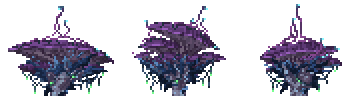
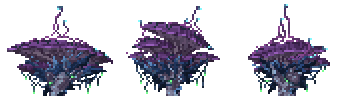
Fixed BigCorruptionInfectedMushroom tops

diff --git a/Content/Trees/CorruptionInfectedBigMushroom.cs b/Content/Trees/CorruptionInfectedBigMushroom.cs
@@ -9,12 +9,9 @@ namespace BiomeExpansion.Content.Tiles.Trees;
 
 public class CorruptionInfectedBigMushroom : ModTree
 {
-    private Asset<Texture2D> _texture;
-    private Asset<Texture2D> _branchesTexture;
-    private Asset<Texture2D> _topsTexture;
-    public override Asset<Texture2D> GetTexture() => _texture;
-    public override Asset<Texture2D> GetBranchTextures() => _branchesTexture;
-    public override Asset<Texture2D> GetTopTextures() => _topsTexture;
+    public override Asset<Texture2D> GetTexture() => ModContent.Request<Texture2D>("BiomeExpansion/Assets/Trees/BigInfectedMushroom");
[1 lines of base64/hex data omitted]
+    public override Asset<Texture2D> GetTopTextures() => ModContent.Request<Texture2D>("BiomeExpansion/Assets/Trees/BigCorruptionInfectedMushroomTops");
     public override int CreateDust() => DustID.Corruption;
     public override bool CanDropAcorn() => false;
     public override int DropWood() => ModContent.ItemType<Items.Placeable.CorruptionInfectedSmallMushroom>();
@@ -30,9 +27,6 @@ public class CorruptionInfectedBigMushroom : ModTree
     public override void SetStaticDefaults() 
     {
         GrowsOnTileId = [ModContent.TileType<CorruptionInfectedMushroomGrass>()];
-        _texture = ModContent.Request<Texture2D>("BiomeExpansion/Assets/Trees/BigInfectedMushroom");
[1 lines of base64/hex data omitted]
-        _topsTexture = ModContent.Request<Texture2D>("BiomeExpansion/Assets/Trees/BigCorruptionInfectedMushroomTops");
     }
 
     public override int SaplingGrowthType(ref int style)
@@ -43,5 +37,12 @@ public class CorruptionInfectedBigMushroom : ModTree
     
     public override void SetTreeFoliageSettings(Tile tile, ref int xoffset, ref int treeFrame, ref int floorY, ref int topTextureFrameWidth, ref int topTextureFrameHeight)
     {
+        topTextureFrameWidth = 112;
+        topTextureFrameHeight = 94;
+    }
+    
+    public override bool Shake(int x, int y, ref bool createLeaves)
+    {
+        return false;
     }
 }

diff --git a/BiomeExpansion.cs b/BiomeExpansion.cs
@@ -1,7 +1,4 @@
-using BiomeExpansion.Helpers;
 using Terraria;
-using Terraria.Graphics.Effects;
-using Terraria.Graphics.Shaders;
 using Terraria.ID;
 using Terraria.ModLoader;
 
@@ -14,9 +11,6 @@ namespace BiomeExpansion
 		{
 			if (Main.netMode != NetmodeID.Server)
 			{
-				ShaderHelper.LoadNewShader("BiomeExpansion:CorruptionBloodMoonFilterShader", new Filter(new ScreenShaderData("FilterBloodMoon").UseColor(83, 62, 125).UseOpacity(0.95f), EffectPriority.High));
-				ShaderHelper.LoadNewShader("BiomeExpansion:CrimsonBloodMoonFilterShader", new Filter(new ScreenShaderData("FilterBloodMoon").UseColor(171, 22, 22).UseOpacity(0.95f), EffectPriority.High));
-			
 				// Asset<Effect> crimsonEffect = Assets.Request<Effect>("Assets/Effects/CrimsonInfectedShader");
 				// ShaderHelper.LoadNewShader("BiomeExpansion:CrimsonInfectedShader", new Filter(new ScreenShaderData(crimsonEffect, "BiomeExpansion:CrimsonInfectedShader").UseIntensity(1f).UseProgress(Main.GameUpdateCount / 60f), EffectPriority.High));
 			}

diff --git a/Content/Biomes/CrimsonInfectedMushroomSurfaceBiome.cs b/Content/Biomes/CrimsonInfectedMushroomSurfaceBiome.cs
@@ -3,7 +3,6 @@ using BiomeExpansion.Common.Systems;
 using Terraria;
 using Terraria.GameContent.Events;
 using Terraria.Graphics.Capture;
-using Terraria.Graphics.Effects;
 using Terraria.ID;
 using Terraria.ModLoader;
 
@@ -25,18 +24,6 @@ namespace BiomeExpansion.Content.Biomes
 
         public override bool IsBiomeActive(Player player) {
             return !player.ZoneDungeon && ModContent.GetInstance<BiomeTileCounterSystem>().CrimsonInfectedMushroomBiomeTileCount >= 150;
-        }
-        
-        public override void OnInBiome(Player player)
-        {
-            Filters.Scene.Activate("BiomeExpansion:CrimsonBloodMoonFilterShader");
-            // Filters.Scene.Activate("BiomeExpansion:CrimsonInfectedShader");
-        }
-
-        public override void OnLeave(Player player)
-        {
-            Filters.Scene.Deactivate("BiomeExpansion:CrimsonBloodMoonFilterShader");
-            // Filters.Scene.Deactivate("BiomeExpansion:CrimsonInfectedShader");
         }
     }   
 }

diff --git a/Content/Biomes/CorruptionInfectedMushroomSurfaceBiome.cs b/Content/Biomes/CorruptionInfectedMushroomSurfaceBiome.cs
@@ -3,7 +3,6 @@ using BiomeExpansion.Common.Systems;
 using Terraria;
 using Terraria.GameContent.Events;
 using Terraria.Graphics.Capture;
-using Terraria.Graphics.Effects;
 using Terraria.ID;
 using Terraria.ModLoader;
 
@@ -25,16 +24,6 @@ namespace BiomeExpansion.Content.Biomes
         
         public override bool IsBiomeActive(Player player) {
             return !player.ZoneDungeon && ModContent.GetInstance<BiomeTileCounterSystem>().CorruptionInfectedMushroomBiomeTileCount >= 150;
-        }
-
-        public override void OnInBiome(Player player)
-        {
-            Filters.Scene["BiomeExpansion:CorruptionBloodMoonFilterShader"].Active = true;
-        }
-
-        public override void OnLeave(Player player)
-        {
-            Filters.Scene["BiomeExpansion:CorruptionBloodMoonFilterShader"].Active = false;
         }
     }   
 }

diff --git a/Content/Trees/CrimsonInfectedBigMushroom.cs b/Content/Trees/CrimsonInfectedBigMushroom.cs
@@ -44,4 +44,9 @@ public class CrimsonInfectedBigMushroom : ModTree
     public override void SetTreeFoliageSettings(Tile tile, ref int xoffset, ref int treeFrame, ref int floorY, ref int topTextureFrameWidth, ref int topTextureFrameHeight)
     {
     }
+    
+    public override bool Shake(int x, int y, ref bool createLeaves)
+    {
+        return false;
+    }
 }
